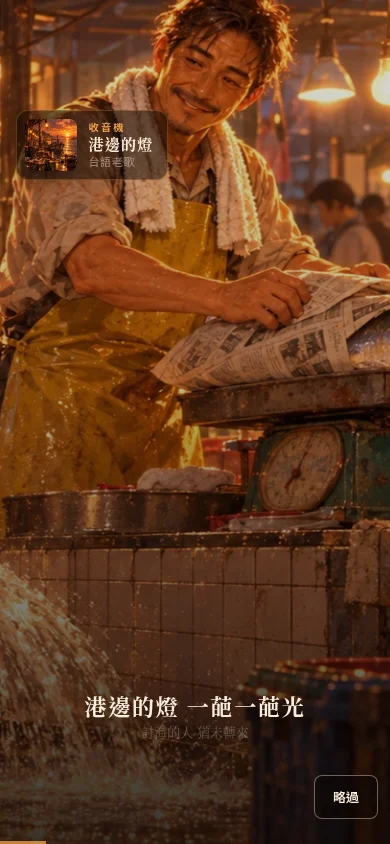
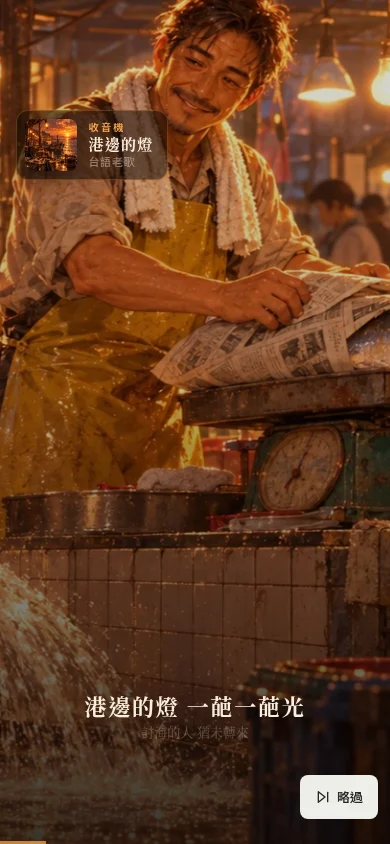
唱歌卡 1.1.1：略過鈕照 Larch 介面樣式、補商城介紹與特色（中英）、重拍封面與截圖

Changed region(s): [[0.7692, 0.8934, 0.9846, 0.9858]]

diff --git a/src/plugin/song_card.html b/src/plugin/song_card.html
@@ -1,6 +1,17 @@
 <!doctype html>
 <html lang="zh-Hant"><head><meta charset="utf-8"><meta name="viewport" content="width=device-width,initial-scale=1">
 <style>
+:root{--larch-ink:#111210;--larch-paper:#ffffff;--larch-soft:#eeeeea;--larch-line:#deded7;--larch-control-line:#8b8d85;--larch-muted:#686a63;--larch-control-muted-bg:#eeeeea;--larch-control-muted-fg:#262724;--larch-control-strong-bg:#171716;--larch-control-strong-fg:#ffffff;--larch-danger-bg:#fff0ee;--larch-danger-fg:#9f352e;--larch-link-fg:#3542b4;--larch-font:Inter,"SF Pro Display","Noto Sans TC","Microsoft JhengHei",system-ui,sans-serif;--larch-spring:cubic-bezier(.2,.9,.2,1);--larch-spring-pop:cubic-bezier(.2,1.5,.35,1);color-scheme:light}
+@supports (transition-timing-function:linear(0,1)){:root{--larch-spring:linear(0,.047,.157,.293,.432,.561,.673,.766,.84,.896,.937,.966,.986,.999,1.006,1.01,1.011,1.011,1.01,1.008,1.007,1.005,1.004,1.003,1);--larch-spring-pop:linear(0,.103,.333,.594,.823,.991,1.091,1.132,1.131,1.106,1.071,1.037,1.01,.993,.984,.982,.984,.988,.993,.997,1,1.002,1.002,1.002,1)}}
+:root[data-larch-theme="dark"],:root.dark{--larch-ink:#f4f4f1;--larch-paper:#1e1f22;--larch-soft:#2b2c31;--larch-line:#4e5058;--larch-control-line:#7c7f88;--larch-muted:#b5bac1;--larch-control-muted-bg:#2b2c31;--larch-control-muted-fg:#f2f3f5;--larch-control-strong-bg:#f2f3f5;--larch-control-strong-fg:#171815;--larch-danger-bg:#3b2421;--larch-danger-fg:#ffb5ae;--larch-link-fg:#b8beff;color-scheme:dark}
+@media (prefers-color-scheme:dark){:root:not([data-larch-theme="light"]):not(.light){--larch-ink:#f4f4f1;--larch-paper:#1e1f22;--larch-soft:#2b2c31;--larch-line:#4e5058;--larch-control-line:#7c7f88;--larch-muted:#b5bac1;--larch-control-muted-bg:#2b2c31;--larch-control-muted-fg:#f2f3f5;--larch-control-strong-bg:#f2f3f5;--larch-control-strong-fg:#171815;--larch-danger-bg:#3b2421;--larch-danger-fg:#ffb5ae;--larch-link-fg:#b8beff;color-scheme:dark}}
+button{min-height:36px;padding:0 14px;border:1px solid transparent;border-radius:8px;font:600 13px/1 var(--larch-font);display:inline-flex;align-items:center;justify-content:center;gap:6px;cursor:pointer;background:var(--larch-control-muted-bg);color:var(--larch-control-muted-fg);transition:scale .38s var(--larch-spring),box-shadow .38s var(--larch-spring),background-color .22s ease,border-color .22s ease,color .22s ease}
+@media (hover:hover){button:not(:disabled):hover{scale:1.018}}
+button:not(:disabled):active{scale:.965;transition-duration:.1s}
+button:focus-visible{outline:2px solid var(--larch-ink);outline-offset:3px}
+button svg{width:16px;height:16px;fill:none;stroke:currentColor;stroke-width:2;stroke-linecap:round;stroke-linejoin:round}
+@media (prefers-reduced-motion:reduce){*,*::before,*::after{animation-duration:.01ms!important;transition-duration:.01ms!important}}
+/* 以上是 Larch 介面樣式（插件規格要求放在開頭）；以下是唱歌卡的畫面，歌詞與背景屬遊戲美術 */
 :root{--ink:#fbeedd;--dim:rgba(251,238,221,.42);--acc:#ffab4d;--serif:"Noto Serif TC","Songti TC","PMingLiU",serif;--sans:Inter,"Noto Sans TC","Microsoft JhengHei",system-ui,sans-serif;color-scheme:dark}
 *{box-sizing:border-box}
 html,body{margin:0;height:100%;background:#0d0705;color:var(--ink);overflow:hidden;-webkit-user-select:none;user-select:none}
@@ -24,10 +35,7 @@ html,body{margin:0;height:100%;background:#0d0705;color:var(--ink);overflow:hidd
 #cur.in{animation:rise .55s cubic-bezier(.2,.9,.2,1) both}
 @keyframes rise{from{opacity:0;transform:translateY(10px)}}
 .bar{position:fixed;left:0;bottom:0;height:3px;width:0;background:var(--acc);opacity:.7}
-#skip{position:fixed;right:max(3vw,12px);bottom:max(3vh,12px);min-height:44px;padding:0 18px;border:1px solid rgba(251,238,221,.4);border-radius:8px;background:rgba(13,7,5,.55);color:var(--ink);font:600 13px/1 var(--sans);cursor:pointer;transition:scale .38s cubic-bezier(.2,.9,.2,1),background-color .22s ease}
-@media (hover:hover){#skip:hover{scale:1.018;background:rgba(13,7,5,.8)}}
-#skip:active{scale:.965;transition-duration:.1s}
-#skip:focus-visible{outline:2px solid var(--ink);outline-offset:3px}
+#skip{position:fixed;right:max(3vw,12px);bottom:max(3vh,12px);min-height:44px}   /* Larch 標準按鈕（muted），手機至少 44px */
 @media (prefers-reduced-motion:reduce){*,*::before,*::after{animation-duration:.01ms!important;transition-duration:.01ms!important}}
 </style></head>
 <body>
@@ -36,7 +44,7 @@ html,body{margin:0;height:100%;background:#0d0705;color:var(--ink);overflow:hidd
 <div class="now" id="now" hidden><img id="cov" alt=""><div><em id="who"></em><b id="ttl"></b><small id="ver"></small></div></div>
 <div class="lyr" aria-live="polite"><p id="prev"></p><p id="cur"></p><p id="next"></p></div>
 <div class="bar" id="bar" aria-hidden="true"></div>
-<button id="skip" type="button">略過</button>
+<button id="skip" type="button"><svg viewBox="0 0 24 24" aria-hidden="true"><path d="M5 4l10 8-10 8z"/><path d="M19 5v14"/></svg><span id="skipt">略過</span></button>
 <script>
 // 唱歌卡：歌由播放器播（卡片層 bgm），這裡照「進卡後經過的秒數」亮歌詞；不吃點擊，唱完才送完成，或玩家按「略過」。
 var V = {}, lines = [], bgs = [], imgs = [], dur = 0, off = 0, t0 = 0, done = false, curI = -2, bgI = -1, front = 'bgA';
@@ -81,7 +89,7 @@ addEventListener('message', function (e) {
   document.getElementById('ver').textContent = V.songVersion || '';
   if (V.cover) document.getElementById('cov').src = V.cover;
   document.getElementById('now').hidden = !(V.songTitle || V.cover);
-  document.getElementById('skip').textContent = V.skipLabel || '略過';
+  document.getElementById('skipt').textContent = V.skipLabel || '略過';
   requestAnimationFrame(tick);
 });
 parent.postMessage({ type: 'larch:ready' }, '*');

diff --git a/src/plugin/song_manifest.py b/src/plugin/song_manifest.py
@@ -2,7 +2,7 @@
 畫面在同資料夾的 song_card.html；遊戲裡跑的是 build 時塞進卡片的 pluginHtml，這份 manifest 只給編輯器認得這種卡。"""
 import json, pathlib
 HERE = pathlib.Path(__file__).resolve().parent
-ID, CARD, VERSION = 'ember-song-card', 'sing', '1.1.0'   # 1.1.0：左上角加封面、歌名、版本
+ID, CARD, VERSION = 'ember-song-card', 'sing', '1.1.1'   # 1.1.0：左上角加封面、歌名、版本；1.1.1：略過鈕照 Larch 介面樣式、補商城介紹
 FIELDS = [
     {'key': 'lines', 'kind': 'longText', 'label': '歌詞', 'labelEn': 'Lyrics', 'defaultValue': '1.5｜第一句\n5.0｜第二句',
      'hint': '一行一句：「秒數｜歌詞」，秒數從進卡算起。間奏可以寫「♪」。'},
@@ -26,10 +26,18 @@ MANIFEST = {
     'description': '全螢幕唱歌卡：卡片上的歌由播放器播，歌詞照進卡後的秒數一句一句亮起，背景圖可以照秒數換。點畫面不會讓歌詞往前跑；唱完自動往下，或按「略過」。',
     'descriptionEn': 'Fullscreen sing-along card: the player plays the card music, lyrics light up by elapsed seconds, backgrounds change on cue. Clicks never push the lyrics ahead; it continues when the song ends or when the skip button is pressed.',
     'permissions': ['assets:read', 'flow:control'],
+    'overview': ('讓歌好好唱完的卡片。卡片上的歌交給播放器播，歌詞照「進卡後經過的秒數」一句一句亮起，正在唱的那句放大，上一句、下一句淡淡留著。\n\n'
+                 '用對話框拼歌詞，玩家一點畫面字就跑到歌前面；這張卡不吃點擊，歌唱完才自動往下。想離開就按右下角的「略過」。\n\n'
+                 '歌詞一行寫「秒數｜歌詞」，背景圖可以照秒數換，左上角可以放封面、歌名與版本。進卡到歌真的出聲的延遲，用「校正」秒數補。'),
+    'features': '歌詞照秒數亮起，點畫面不會跑掉\n唱完自動往下，或按「略過」\n最多 6 張背景圖，照秒數換\n左上角封面、歌名、版本\n「校正」秒數補播放延遲\n手機直式也能用',
+    'overviewEn': ('A card that lets a song play through. The player plays the card music; lyrics light up by elapsed seconds, the current line large with the previous and next lines faint.\n\n'
+                   'Clicks never push the lyrics ahead. The card continues when the song ends, or when the skip button is pressed.\n\n'
+                   'Write lyrics as one "seconds｜line" per row, change backgrounds on cue, and show a cover, title and version in the corner.'),
+    'featuresEn': 'Lyrics follow the clock; clicks do not skip ahead\nContinues when the song ends, or on Skip\nUp to 6 backgrounds on cue\nCover, title and version in the corner\nOffset to cover playback latency\nWorks on phones',
     # 商城縮圖與截圖（作者 10-29：素材商城裡缺封面）；原檔在 src/plugin/song-card-*.webp，用 larch 的 plugins/images 上傳
-    'cover': 'https://pub-4b20b43f5acf4dfaa3f6ab842daa51cf.r2.dev/2d3b0242-9a6d-4051-9825-46aa4efd064a/larch/plugins/ember-song-card/1793254141502_song-card-cover.webp',
-    'gallery': [{'url': 'https://pub-4b20b43f5acf4dfaa3f6ab842daa51cf.r2.dev/2d3b0242-9a6d-4051-9825-46aa4efd064a/larch/plugins/ember-song-card/1793254143547_song-card-shot-desk.webp', 'caption': '桌機：歌詞照秒數亮起，左上角是正在播的歌'},
-                {'url': 'https://pub-4b20b43f5acf4dfaa3f6ab842daa51cf.r2.dev/2d3b0242-9a6d-4051-9825-46aa4efd064a/larch/plugins/ember-song-card/1793254144778_song-card-shot-phone.webp', 'caption': '手機直式'}],
+    'cover': 'https://pub-4b20b43f5acf4dfaa3f6ab842daa51cf.r2.dev/2d3b0242-9a6d-4051-9825-46aa4efd064a/larch/plugins/ember-song-card/1793254259774_song-card-cover-111.webp',
+    'gallery': [{'url': 'https://pub-4b20b43f5acf4dfaa3f6ab842daa51cf.r2.dev/2d3b0242-9a6d-4051-9825-46aa4efd064a/larch/plugins/ember-song-card/1793254280477_song-card-shot-desk-111.webp', 'caption': '桌機：歌詞照秒數亮起，左上角是正在播的歌'},
+                {'url': 'https://pub-4b20b43f5acf4dfaa3f6ab842daa51cf.r2.dev/2d3b0242-9a6d-4051-9825-46aa4efd064a/larch/plugins/ember-song-card/1793254283818_song-card-shot-phone-111.webp', 'caption': '手機直式'}],
     'cards': [{'id': CARD, 'name': '唱歌卡', 'nameEn': 'Sing-along', 'icon': 'music', 'color': '#b5532a', 'presentation': 'fullscreen', 'skippable': False,
                'description': '歌詞跟著秒數亮起，唱完自動往下。', 'descriptionEn': 'Lyrics follow the clock; continues when the song ends.',
                'readVariables': [], 'writeVariables': [], 'fields': FIELDS, 'html': (HERE / 'song_card.html').read_text(encoding='utf-8')}],

diff --git a/src/songs.py b/src/songs.py
@@ -267,7 +267,7 @@ def _song_card(project, by_id, nodes, edges, cut, url, ts):
     sd = song['data']
     for k in ('dialogueLines', 'autoAdvance', 'speaker'):
         sd.pop(k, None)
-    sd.update(type='plugin', text='', pluginId=SONG_PLUGIN, pluginCardId='sing', pluginVersion='1.1.0', pluginName='唱歌卡', pluginCardName='唱歌卡',
+    sd.update(type='plugin', text='', pluginId=SONG_PLUGIN, pluginCardId='sing', pluginVersion='1.1.1', pluginName='唱歌卡', pluginCardName='唱歌卡',
               pluginIcon='music', pluginColor='#b5532a', pluginPresentation='fullscreen', pluginFrame={'showTitle': False, 'showButton': False},
               pluginSkippable=False, pluginReadVars=[], pluginWriteVars=[], pluginAssets=[], platforms=['web'],
               pluginHtml=SONG_HTML + f'<!-- {song["id"]} -->',   # 相鄰兩張插件卡 html 一樣會沿用前一張的畫面，尾端加卡片 id 讓內容不同
